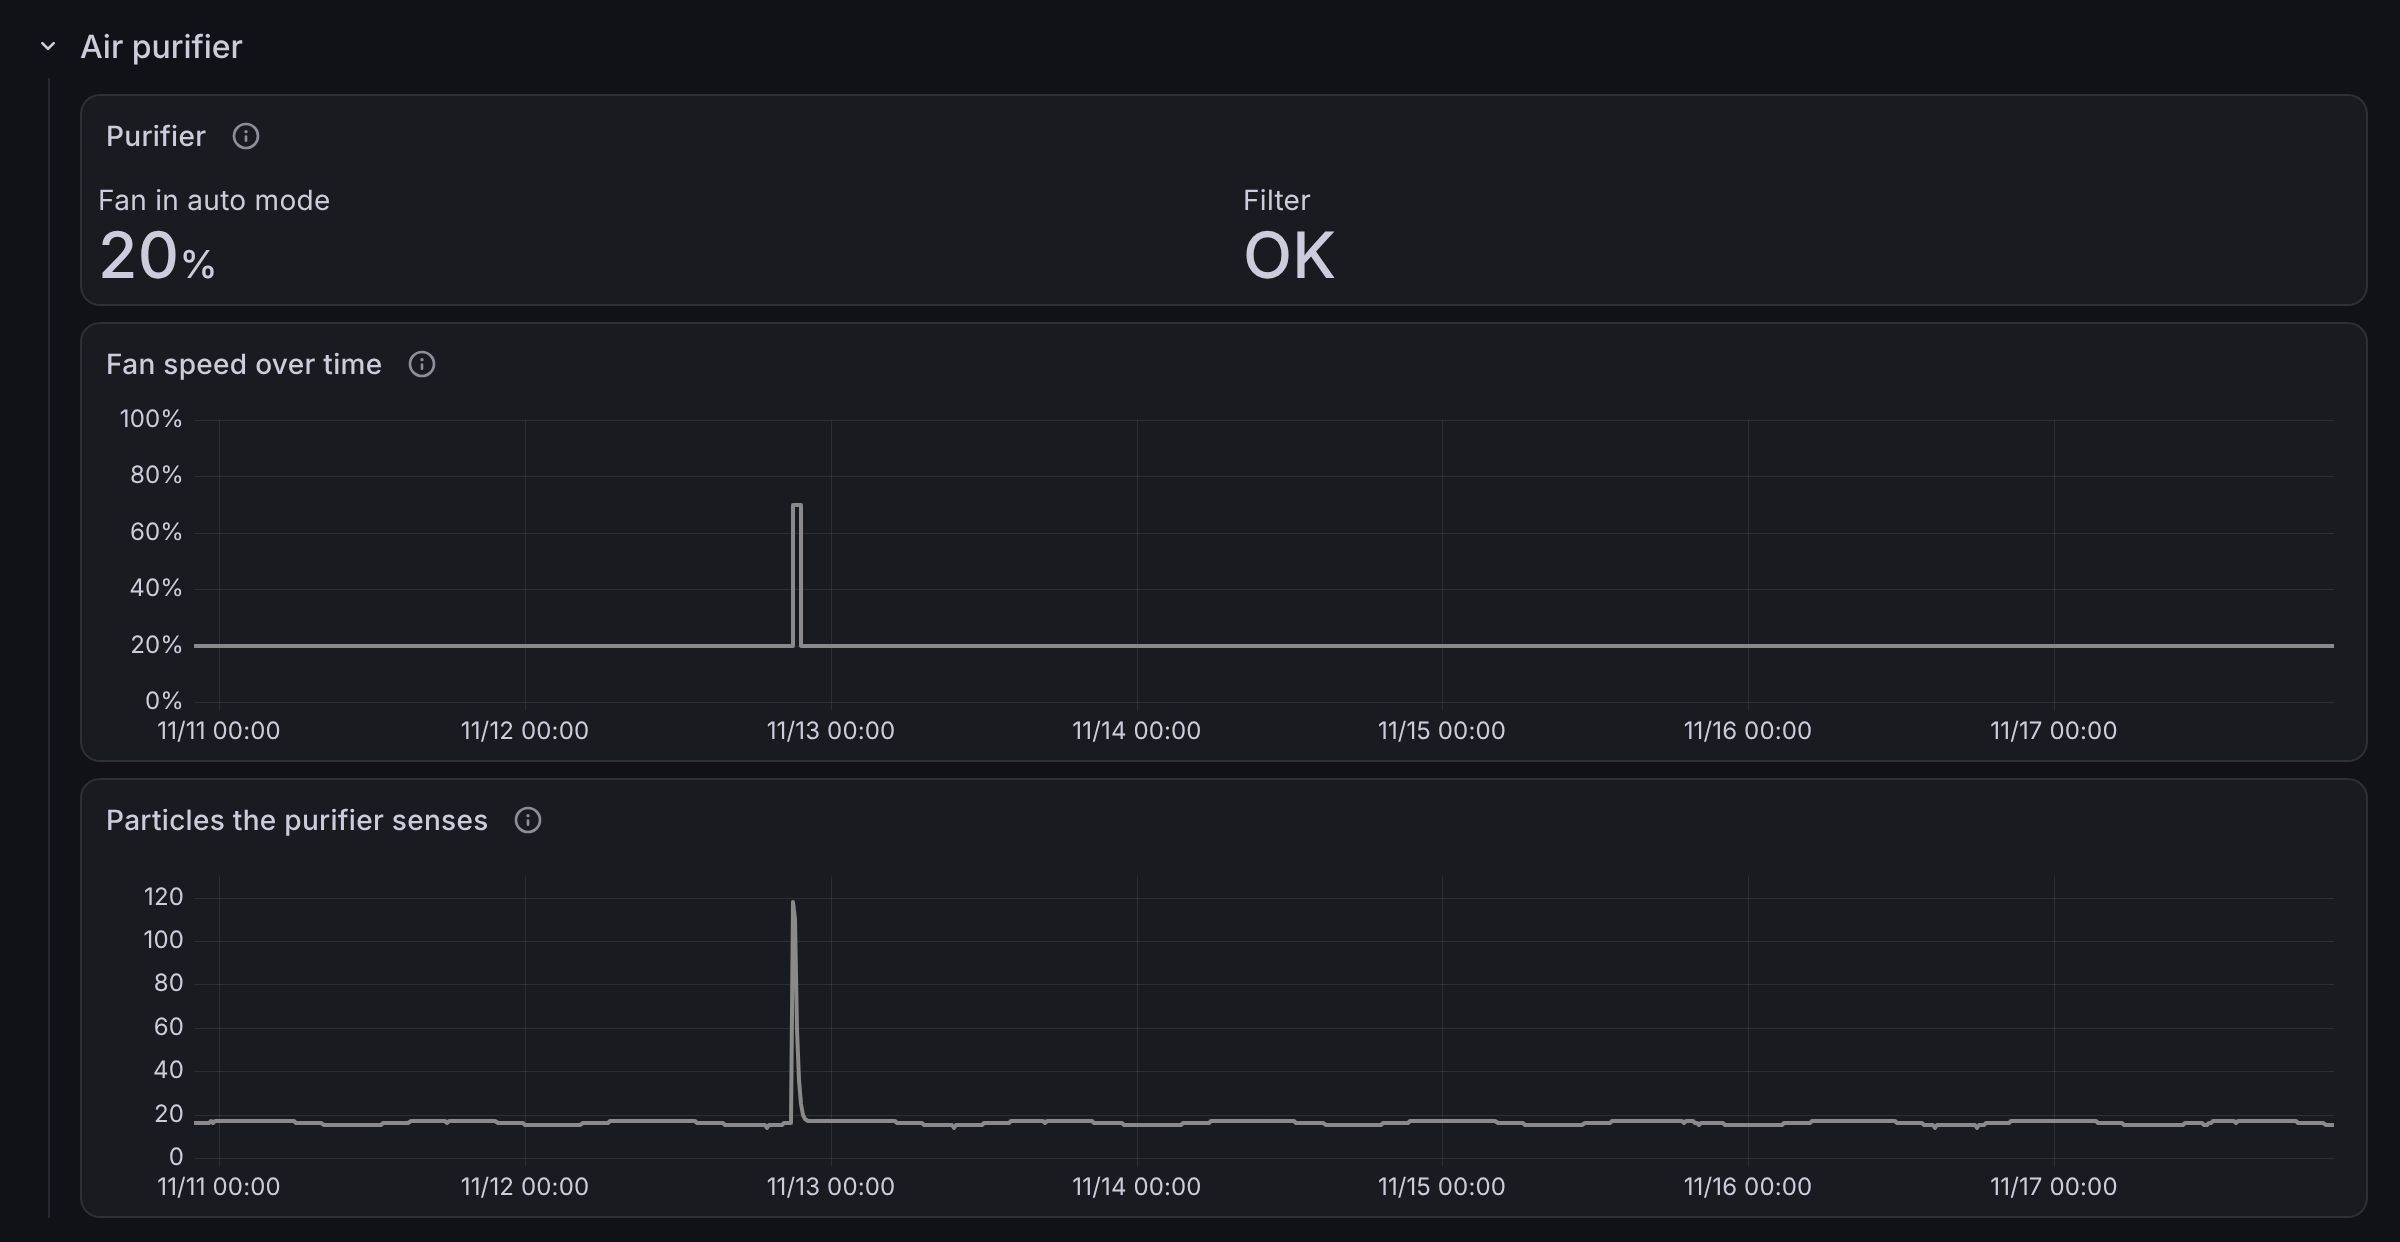
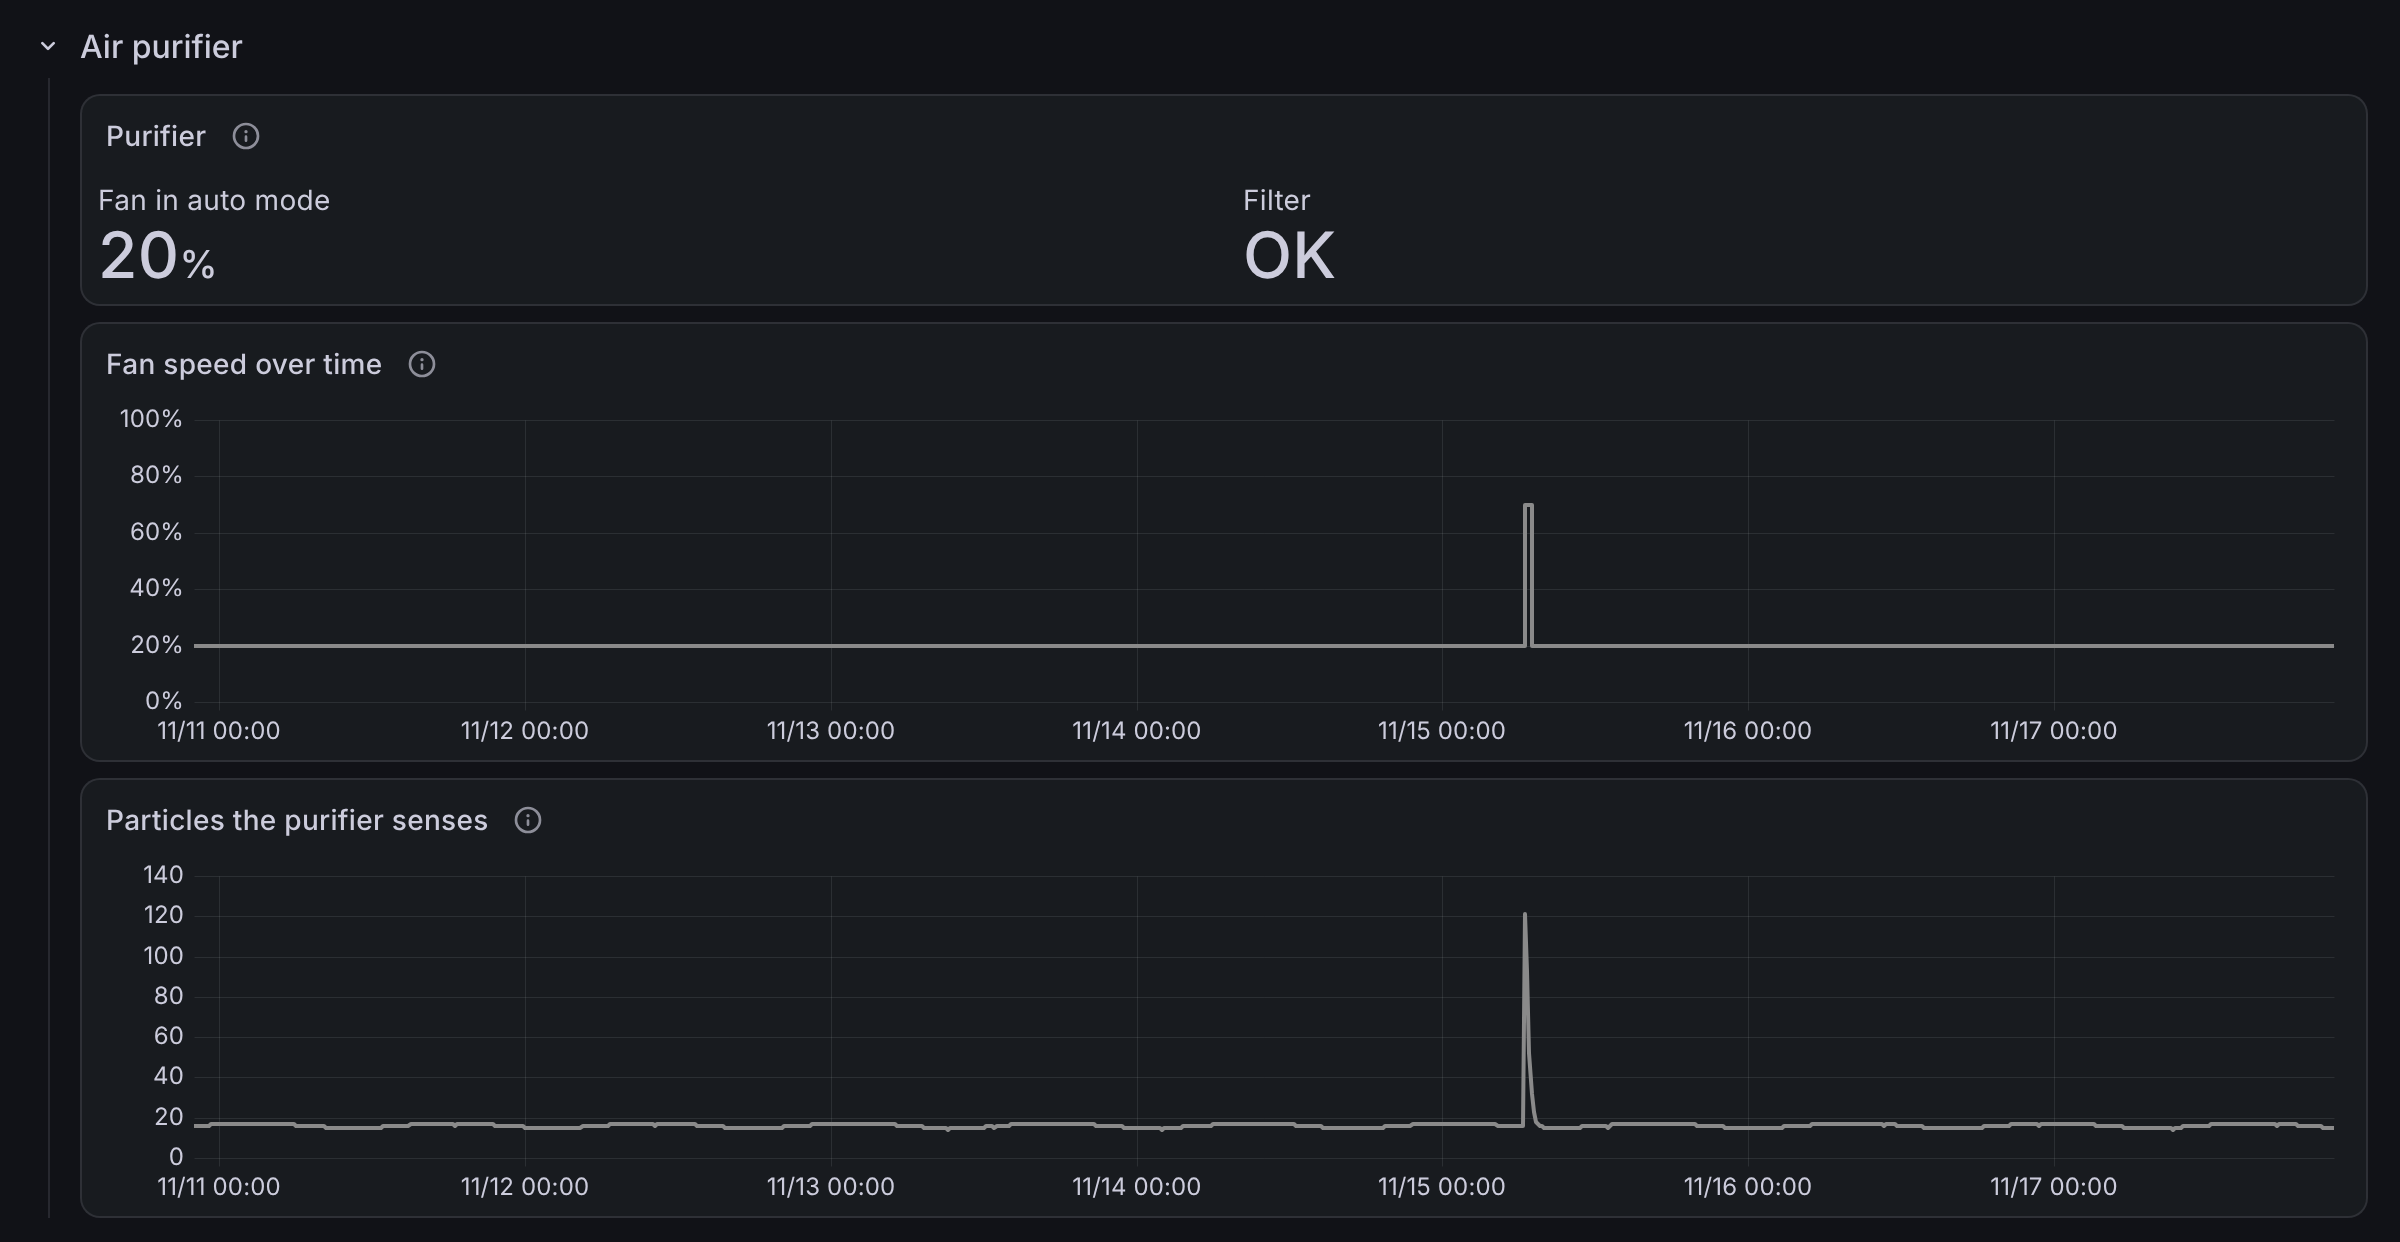
docs: compose the test data on the golden ratio
The screenshots now have a focal point. The week builds up to 0.618 of
the time range: the widest temperature swing, the highest CO2 night and
the highest PM2.5 peak are there. The PM2.5 peaks stand at the golden
sections of the week and their heights fall by phi. The gaps between
the temperature lines shrink by phi. On the lights dashboard the motions
in each hour follow the Fibonacci numbers up to a focal hour and back,
and the presses of the 4 remotes are 8, 5, 3 and 2 a day.

The header of tools/testdata.py lists the rules.

Claude-Session: https://claude.ai/code/session_01XiybZB8JF1pUpSGVhC74hx

Changed region(s): [[0.0625, 0.7037, 0.9688, 0.9179], [0.625, 0.4283, 0.6562, 0.5201], [0.3125, 0.4283, 0.3438, 0.5201]]

diff --git a/tools/testdata.py b/tools/testdata.py
@@ -5,12 +5,39 @@ Writes data2.om in the OpenMetrics format. Load it into an empty Prometheus:
     PYTHONHASHSEED=0 python3 tools/testdata.py
     promtool tsdb create-blocks-from openmetrics data2.om promdata
 
-No value in it is a real reading.
+No value in it is a real reading. The data is composed, so that the
+screenshots read well. It follows the golden ratio, phi = 1.618:
+
+- The week builds up to a focal point at 0.618 of the time range: the widest
+  temperature swing, the highest CO2 night and the highest PM2.5 peak are there.
+- The PM2.5 peaks stand at the golden sections of the week (0.382, 0.618 and
+  0.854) and their heights fall by phi: 150, 93 and 57.
+- The gaps between the temperature lines shrink by phi, from the bottom up.
+- On the lights dashboard the motions in each hour follow the Fibonacci numbers
+  up to a focal hour at 0.618 of the day and back: 1, 1, 2, 3, 5, 8, 5, 3, 2, 1, 1.
+  The presses of the 4 remotes in a day are 8, 5, 3 and 2.
 """
 import time, math, random
 random.seed(11)
 END = int(time.time()) // 3600 * 3600
 STEP = 60
+PHI = (1 + 5 ** 0.5) / 2
+WEEK0 = END - 7 * 86400
+def focus(t):
+    """1 at the golden section of the week, falling to about 0 at both ends."""
+    return math.exp(-(((t - WEEK0) / (7 * 86400) - 1 / PHI) / 0.22) ** 2)
+# Motions in each hour of the last 24: Fibonacci numbers up to the focal hour, 0.618 of the day, and back.
+FIB_DAY = [0] * 24
+for offset, count in zip(range(-5, 6), (1, 1, 2, 3, 5, 8, 5, 3, 2, 1, 1)):
+    FIB_DAY[round(24 / PHI) + offset] = count
+def motions_in_hour(t): return FIB_DAY[23 - ((END - 1 - t) // 3600) % 24]
+def moving_at(t):
+    count = motions_in_hour(t)
+    return count > 0 and ((t % 3600) // 60) in {int((k + 0.5) * 60 / count) for k in range(count)}
+PRESSES_A_DAY = {"Sofa wheel": 8, "Kitchen wheel": 5, "Bedroom wheel": 3, "Bath wheel": 2}
+def pressed_at(name, t):
+    count = PRESSES_A_DAY[name]; minute = ((t + 3600) % 86400) // 60 - 420       # between 07:00 and 23:00
+    return 0 <= minute < 960 and minute in {int((k + 0.5) * 960 / count) for k in range(count)}
 T = list(range(END - 7 * 86400 - 3600, END + 1, STEP))
 def hour(t): return ((t % 86400) / 3600 + 1) % 24     # local time, UTC+1
 fam = {}
@@ -23,8 +50,9 @@ def add(metric, labels, t, v):
     lab = ",".join('%s="%s"' % kv for kv in labels.items())
     fam.setdefault(metric, []).append("%s{%s} %s %d" % (metric, lab, v, t) if lab else "%s %s %d" % (metric, v, t))
 air = {  # room: (sensor, base temp, swing, base rh, has co2/pm25)
-    "Bedroom": ("Bedroom sensor", 18.2, 1.0, 58, True), "Living room": ("Living room sensor", 20.6, 1.0, 48, True),
-    "Office": ("Office sensor", 19.4, 0.8, 52, False), "Bathroom": ("Bathroom sensor", 21.0, 0.6, 62, False)}
+    # The gaps between the temperature lines shrink by phi: 1.62, 1.0 and 0.62 degrees.
+    "Bedroom": ("Bedroom sensor", 18.0, 1.0, 59, True), "Living room": ("Living room sensor", 20.62, 0.62, 46, True),
+    "Office": ("Office sensor", 19.62, 0.62, 51, False), "Bathroom": ("Bathroom sensor", 21.24, 0.38, 62, False)}
 lights = [("Kitchen","Ceiling 1"),("Kitchen","Ceiling 2"),("Kitchen","Worktop strip"),("Living room","Floor lamp"),("Living room","Reading lamp"),
           ("Living room","TV light"),("Bedroom","Bedside"),("Bedroom","Ceiling"),("Entrance","Hall 1"),("Entrance","Hall 2"),("Bathroom","Mirror")]
 def light(room, name, t):
@@ -32,7 +60,7 @@ def light(room, name, t):
     if room == "Kitchen": on = 6.7 < h < 7.6 or 17.5 < h < 20.2; lvl = 100 if name != "Worktop strip" else 60
     elif room == "Living room": on = 17 < h < 23.2 and not (name == "Reading lamp" and h < 20.5); lvl = 100 if h < 21 else (45 if name != "TV light" else 20)
     elif room == "Bedroom": on = 6.4 < h < 7.1 or 22.3 < h < 23.6; lvl = 25 if name == "Bedside" else 70
-    elif room == "Entrance": on = (int(t/600) * 2654435761 % 97) < (14 if 7 < h < 23 else 2); lvl = 80
+    elif room == "Entrance": on = any(moving_at(t - 60 * k) for k in range(4)); lvl = 80      # the motion sensor switches them
     else: on = 6.5 < h < 7.0 or 22.0 < h < 22.4; lvl = 100
     return on, lvl
 remotes = [("Kitchen","Kitchen wheel",85),("Living room","Sofa wheel",27),("Bedroom","Bedroom wheel",12),("Bathroom","Bath wheel",93)]
@@ -47,11 +75,11 @@ for t in T:
     for room, (sensor, base, swing, rh, full) in air.items():
         L = {"sensor": sensor, "room": room}
         st = state.setdefault(room, {"n": 0.0, "hn": 0.0, "co2": 480.0, "pm": 2.0, "amp": {}, "peak": {}})
-        amp = st["amp"].setdefault(day, random.uniform(0.65, 1.25)); ph = PHASE[room]
+        amp = st["amp"].setdefault(day, 0.62 + 0.62 * focus(t + 43200) + random.uniform(-0.04, 0.04)); ph = PHASE[room]
         # A heating day: a slow rise after the morning, a plateau, a fall at night. Not a pure sine.
         x = math.sin(2 * math.pi * (h - ph) / 24); shape = math.copysign(abs(x) ** 0.7, x)
         st["n"] += 0.02 * (random.gauss(0, 1) - 0.6 * st["n"])                     # slow, smooth wander
-        weather = 0.5 * math.sin(2 * math.pi * (t - T[0]) / (3.3 * 86400) + ph)    # warmer and cooler days
+        weather = 0.25 * math.sin(2 * math.pi * (t - T[0]) / (3.3 * 86400) + ph)   # warmer and cooler days
         temp = base + swing * amp * shape + weather + 0.25 * st["n"]
         add("ikea_air_temperature_celsius", L, t, round(temp, 2))
         st["hn"] += 0.03 * (random.gauss(0, 1) - 0.5 * st["hn"])
@@ -62,15 +90,16 @@ for t in T:
             if since < 2.5: hum += 14 * amp * math.exp(-since / 0.55) * min(1, since / 0.08)
         add("ikea_air_humidity_percent", L, t, round(hum))
         if full:
-            if room == "Bedroom": target = st["peak"].setdefault(("n", day), random.uniform(1020, 1320)) if (h >= 23 or h < 7) else 470
-            else: target = st["peak"].setdefault(("e", day), random.uniform(700, 920)) if 19 < h < 23 else 480
+            if room == "Bedroom": target = st["peak"].setdefault(("n", day), 1010 + 320 * focus(t)) if (h >= 23 or h < 7) else 470
+            else: target = st["peak"].setdefault(("e", day), 690 + 200 * focus(t)) if 19 < h < 23 else 480
             tau = 110 if target > st["co2"] else 45                                # minutes: fills slowly, airs fast
             st["co2"] += (target - st["co2"]) * (STEP / 60) / tau
             add("ikea_air_co2_ppm", L, t, round(st["co2"] + random.uniform(-6, 6)))
-            cook = room == "Living room" and day in (1, 3, 4, 6) and abs(h - (18.3 + 0.1 * day)) < STEP / 7200
-            candle = room == "Bedroom" and day == 2 and abs(h - 21.0) < STEP / 7200
-            if cook: st["pm"] += st["peak"].setdefault(("p", day), random.uniform(45, 150))
-            if candle: st["pm"] += 55
+            # Cooking peaks at the golden sections of the week. Their heights fall by phi.
+            for section, height in ((1 / PHI, 150), (1 - 1 / PHI, 150 / PHI), (1 / PHI + 1 / PHI ** 3, 150 / PHI ** 2)):
+                if room == "Living room" and abs(t - (WEEK0 + section * 7 * 86400)) < STEP / 2: st["pm"] += height
+            # A candle in the bedroom, 0.618 of an hour after the highest peak: the purifier answers.
+            if room == "Bedroom" and abs(t - (WEEK0 + 7 * 86400 / PHI + 3600 / PHI)) < STEP / 2: st["pm"] += 150 / PHI ** 2
             st["pm"] += (1.6 + 0.6 * math.sin(t / 9000.0) - st["pm"]) * (STEP / 60) / 14
             add("ikea_air_pm25_micrograms_per_cubic_meter", L, t, max(0, round(st["pm"])))
         add("ikea_dirigera_device_reachable", L, t, 1)
@@ -91,7 +120,7 @@ for t in T:
         on, lvl = light(room, name, t)
         add("ikea_light_on", L, t, int(on)); add("ikea_light_level_percent", L, t, lvl); add("ikea_light_color_temperature_kelvin", L, t, 2702)
     H = {"sensor": "Hall sensor", "room": "Entrance"}
-    moving = (int(t/300) * 2246822519 % 101) < (22 if 7 < h < 23 else 3)
+    moving = moving_at(t)
     if moving and not was: motions += 1; last_motion = t
     was = moving
     add("ikea_motion_detected", H, t, int(moving))
@@ -105,8 +134,7 @@ for t in T:
         frac = (t - T[0]) / (T[-1] - T[0])
         v = b if name not in ("Sofa wheel", "Bedroom wheel") else (33 - 6 * frac if name == "Sofa wheel" else 18 - 6 * frac)
         add("ikea_dirigera_device_reachable", L, t, 1); add("ikea_dirigera_device_battery_percent", L, t, round(v))
-        rate = {"Kitchen wheel": 9, "Sofa wheel": 14, "Bedroom wheel": 6, "Bath wheel": 4}[name]
-        if 7 < h < 23.5 and (int(t / STEP) * 40503 + hash(name)) % 997 < rate: presses[name] += 1
+        if pressed_at(name, t): presses[name] += 1
         add("ikea_remote_presses_total", {**L, "pattern": "singlePress"}, t, presses[name])
     add("ikea_dirigera_device_reachable", {"sensor": "Old remote", "room": "Living room"}, t, 0)
 with open("data2.om", "w") as f:

diff --git a/README.md b/README.md
@@ -85,7 +85,9 @@ purifier senses, so a particle peak lines up with the fan boost it causes:
   <img alt="Air purifier panels: fan mode and speed, filter state, fan speed over time and the particles the purifier senses" src="docs/purifier-dark.png" width="800">
 </picture>
 
-The screenshots use generated test data, not real sensor readings. To make
+The screenshots use generated test data, not real sensor readings. The data is
+composed on the golden ratio, so the week builds up to a focal point at 0.618
+of the time range; the header of `tools/testdata.py` lists the rules. To make
 them again: load the data of `tools/testdata.py` into an empty Prometheus,
 provision both dashboards in a local Grafana that reads it, and take each image
 with `tools/screenshot.js`. The header of each file gives the commands.
